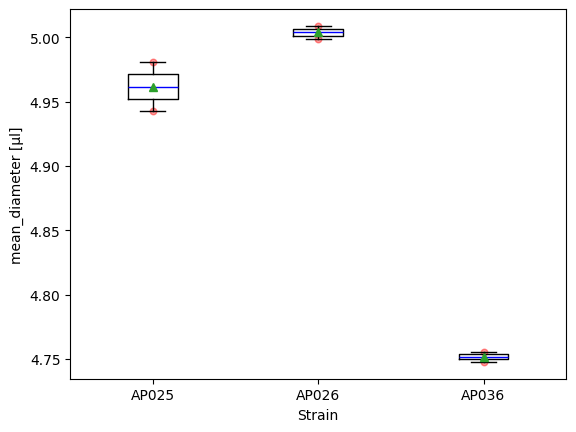
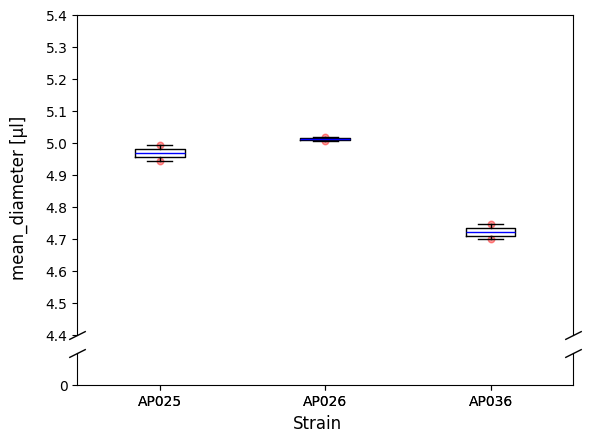
adjust exraction plots

diff --git a/extraction.py b/extraction.py
@@ -1,14 +1,12 @@
 from pathlib import Path
-from numpy import poly, polyder
 import polars as pl
 from collections import defaultdict
 import re
 import sys
 import matplotlib.pyplot as plt
 import matplotlib as mpl
-from polars.functions.lazy import last
 import xlsxwriter as xlw
-from copy import deepcopy, copy
+import numpy as np
 
 mpl.rc("boxplot.flierprops", marker = ".", markersize = 5, markerfacecolor = "k")
 mpl.rc("boxplot.medianprops", color = "b")
@@ -97,7 +95,7 @@ for key in extracted_data.keys():
     starting_index = 0
     i = 0
     for frame in medium_data.iter_slices(measurement_no):
-        cell_sizes = frame.with_row_index("time [h]").drop_nulls().drop_nans()
+        cell_sizes = frame[2:].with_row_index("time [h]").drop_nulls().drop_nans()
         strain = cell_sizes["file_name"][-1][:3+strain_index]
         average_cell_size = cell_sizes["mean_diameter [\u03BCl]"].sum() / cell_sizes["mean_diameter [\u03BCl]"].len()
         plotting_data[strain].append(average_cell_size)
@@ -112,18 +110,34 @@ i = 0
 save_dir = Path("cell_sizes")
 save_dir.mkdir(exist_ok = True)
 print(plotting_data)
+fig, (ax1, ax2) = plt.subplots(2, 1, sharex = True, height_ratios = [1,0.1]) #https://matplotlib.org/stable/gallery/subplots_axes_and_figures/broken_axis.html
+fig.subplots_adjust(hspace = 0.1)
 for key in plotting_data.keys():
     data = plotting_data[key]
     boxplot_data.append(data)
     print(boxplot_data)
     labels.append(f"{key[3:3+strain_index]}")
     x = [i+1 for _ in range(len(data))]
-    plt.scatter(x, data, s = 90, c = "r", marker = ".", alpha = 0.4)
+    ax1.scatter(x, data, s = 90, c = "r", marker = ".", alpha = 0.4)
     i += 1
     if i % strain_no == 0:
-        plt.boxplot(boxplot_data, tick_labels = labels, showmeans = True)
-        plt.xlabel("Strain")
-        plt.ylabel("mean_diameter [\u03BCl]")
+        ax1.boxplot(boxplot_data, tick_labels = labels)
+        ax2.boxplot(boxplot_data, tick_labels = labels)
+        ax1.set_ylim(4.4, 5.4)
+        ax2.set_ylim(0, 0.1)
+        yticks = np.linspace(4.4, 5.4, 11)
+        ax1.set_yticks(yticks)
+        ax2.set_yticks([0])
+        ax1.spines.bottom.set_visible(False)
+        ax2.spines.top.set_visible(False)
+        ax1.tick_params(bottom = False)
+        d = 0.5
+        kwargs = dict(marker=[(-1, -d), (1, d)], markersize=12,
+              linestyle="none", color='k', mec='k', mew=1, clip_on=False)
+        ax1.plot([0, 1], [0, 0], transform=ax1.transAxes, **kwargs)
+        ax2.plot([0, 1], [1, 1], transform=ax2.transAxes, **kwargs) #https://matplotlib.org/stable/gallery/subplots_axes_and_figures/broken_axis.html
+        fig.supxlabel("Strain")
+        fig.supylabel("mean_diameter [\u03BCl]")
         plt.savefig(f"cell_sizes/{mediums[key[:3]]}.png", bbox_inches = "tight")
         plt.close()
         boxplot_data.clear()

diff --git a/od.py b/od.py
@@ -17,32 +17,12 @@ mediums = {
 measurement_no = int(sys.argv[1])
 strain_name_length = int(sys.argv[2])
 
-# cell sizes done
-cell_sizes = defaultdict(pl.DataFrame)
-index = -1
-media = 0
-for file in sorted(Path("raw_data").glob("*.csv")):
-    medium_data = pl.read_csv(file)
-    for slice in medium_data.iter_slices(measurement_no):
-        slice = slice.with_row_index("time")
-        try:
-            cell_sizes[slice["file_name"][index][:-1]].extend(slice)
-        except pl.exceptions.ShapeError:
-            cell_sizes[slice["file_name"][index][:-1]] = slice
-        except TypeError:
-            index -= 1
-            cell_sizes[slice["file_name"][index][:-1]].extend(slice)
-            index = -1
-    media += 1
-
 sheet_id = 1
 plotting_data = defaultdict(list)
-od_data = defaultdict(list)
 while True:
     try:
         medium_data = pl.read_excel("OD1.xlsx", sheet_id = sheet_id, drop_empty_rows = False)
         for df in medium_data.iter_slices(measurement_no):
-            od_data[df["file_name"][-1][:-1]].extend(df["OD (600 nm)"])
             growth_rates = df.with_columns(pl.col("OD (600 nm)").log().alias("log expr")).with_row_index("time").drop_nans().drop_nulls()
             average_growth_rate = np.polyfit(growth_rates["time"], growth_rates["log expr"], 1)
             strain = growth_rates["file_name"][-1][0:3+strain_name_length]
@@ -51,28 +31,6 @@ while True:
         sheet_id += 1
     except ValueError: # this still gives could not determine dtype for column 1, solution? Probably polars-sided
         break
-
-for key in od_data:
-    od_data[key] = pl.DataFrame({"OD": od_data[key]})
-    cell_sizes[key] = cell_sizes[key].hstack(od_data[key]).drop_nulls().drop_nans()
-
-polyfit_dir = Path("Polynomial_fitting")
-polyfit_dir.mkdir(exist_ok = True)
-for idx, key in enumerate(cell_sizes):
-    bin_coef = np.polyfit(cell_sizes[key]["OD"], cell_sizes[key]["mean_diameter [\u03BCl]"], 1)
-    medium = key[:3]
-    if medium == "GLU":
-        whys = np.linspace(0,2,50)
-    elif medium in ["GAL", "GMM"]:
-        whys = np.linspace(0, 1.6, 50)
-    elif medium == "ETH":
-        whys = np.linspace(0, 0.5, 50)
-    y = np.polyval(bin_coef, whys)
-    plt.scatter(cell_sizes[key]["OD"], cell_sizes[key]["mean_diameter [\u03BCl]"], alpha = 0.2)
-    plt.plot(whys, y)
-    if (idx + 1) % 3 == 0:
-        plt.savefig(polyfit_dir / Path(key), bbox_inches = "tight")
-        plt.close()
 
 save_dir = Path("growth_curves")
 save_dir.mkdir(exist_ok = True)
